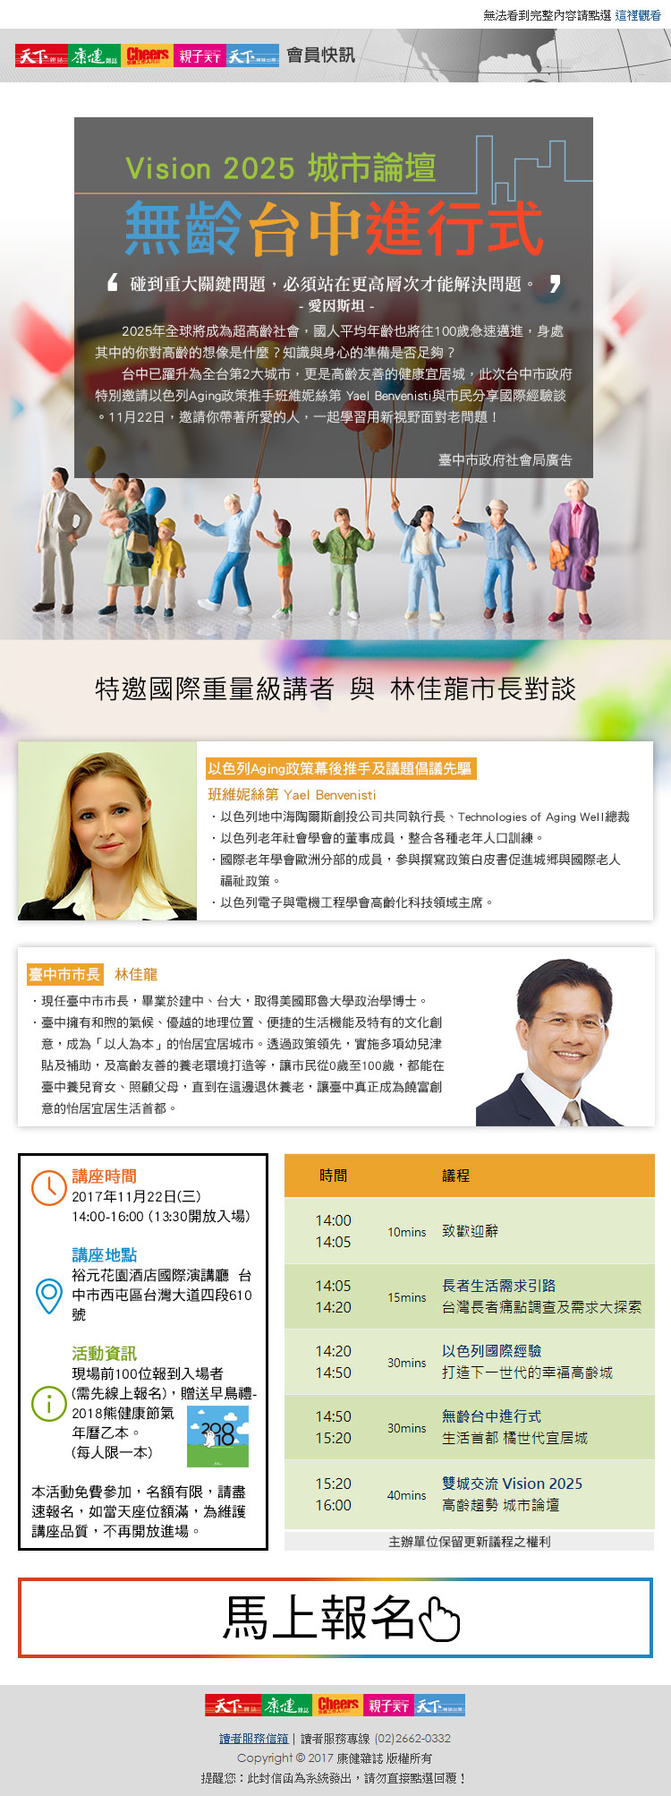
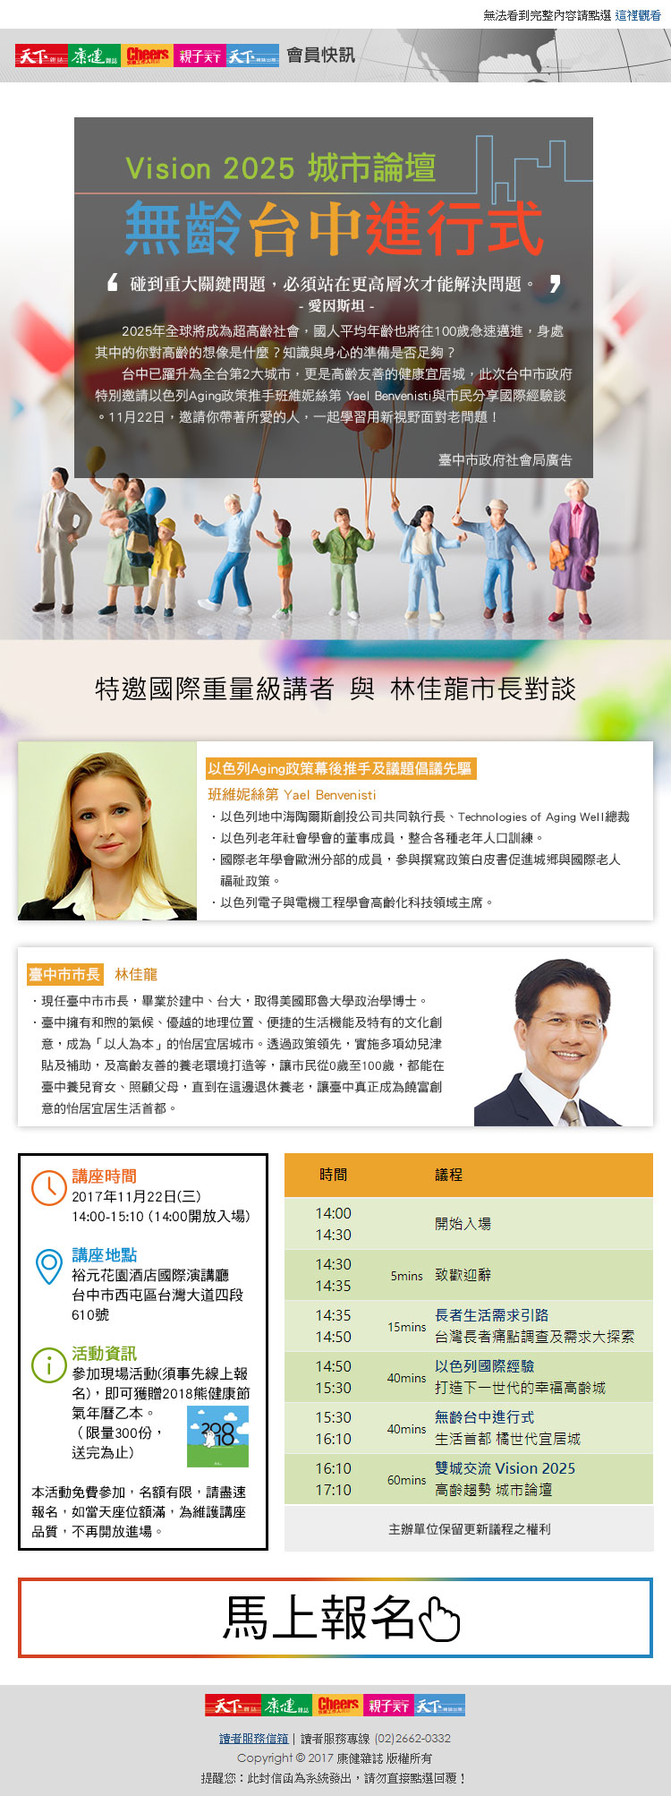
Modify

Changed region(s): [[0.3987, 0.6491, 0.9813, 0.8654], [0.0307, 0.68, 0.368, 0.8654], [0.7667, 0.5254, 0.92, 0.6491]]

diff --git a/web/tks.html b/web/tks.html
@@ -1,0 +1,196 @@
+<!doctype html>
+<html>
+<head>
+    <meta charset="utf-8">
+    <meta http-equiv="X-UA-Compatible" content="IE=edge">
+    <meta name="viewport" content="width=device-width, initial-scale=1, shrink-to-fit=no">
+    <title>Vision 2025高齡論壇～2017無齡台中進行式</title>
+    <meta name="keywords" content="2025,高齡,城市,台中,百歲,退休,競爭力,論壇">
+    <meta name="description" content="2025年全球將成為超高齡社會，國人平均年齡也將往100歲急速邁進，身處其中的你對高齡的想像是什麼？知識與身心的準備是否足夠？
+台中已躍升為全台第2大城市，更是高齡友善的健康宜居城，此次台中市政府特別邀請以色列Aging政策推手 班維妮絲第 Yael Benvenisti 與市民分享國際經驗談。11月22日，邀請你帶著所愛的人，一起學習用新視野面對老問題！">
+    <!--fb og-->
+    <meta property="og:title" content=" Vision 2025高齡論壇～2017無齡台中進行式">
+    <meta property="og:type" content="website"/>
+    <meta property="og:url" content="http://topic.commonhealth.com.tw/2017taichung/">
+    <meta property="og:site_name" content="康健雜誌"/>
+    <meta property="og:description" content="台中已躍升為全台第2大城市，更是高齡友善的健康宜居城，此次台中市政府特別邀請以色列Aging政策推手 班維妮絲第 Yael Benvenisti 與市民分享國際經驗談。11月22日，邀請你帶著所愛的人，一起學習用新視野面對老問題！">
+    <meta property="og:image" content="http://topic.commonhealth.com.tw/2017taichung/assets/img/og-image.jpg" >
+    <meta content="zh_TW" property="og:locale">
+    <link rel="shortcut icon" href="http://www.commonhealth.com.tw/images/favicon.ico" type="image/x-icon" >
+    <link rel="image_src" href="http://topic.commonhealth.com.tw/2017taichung/img/og-image.jpg" >
+    <link rel="stylesheet" href="assets/css/bootstrap.css">
+    <link rel="stylesheet" href="assets/css/custom.css">
+    <!--[if lt IE 9]>
+        <script src="https://oss.maxcdn.com/html5shiv/3.7.2/html5shiv.min.js"></script>
+        <script src="https://oss.maxcdn.com/respond/1.4.2/respond.min.js"></script>
+    <![endif]-->
+    <script src="assets/js/vendor/jquery.min.js"></script>
+    <!-- Google Tag Manager -->
+	<script>(function(w,d,s,l,i){w[l]=w[l]||[];w[l].push({'gtm.start':
+	new Date().getTime(),event:'gtm.js'});var f=d.getElementsByTagName(s)[0],
+	j=d.createElement(s),dl=l!='dataLayer'?'&l='+l:'';j.async=true;j.src=
+	'//www.googletagmanager.com/gtm.js?id='+i+dl;f.parentNode.insertBefore(j,f);
+	})(window,document,'script','dataLayer','GTM-MCMN77');</script>
+	<!-- End Google Tag Manager -->
+
+    <!-- Facebook Pixel Code -->
+    <script>
+    !function(f,b,e,v,n,t,s){if(f.fbq)return;n=f.fbq=function(){n.callMethod?
+    n.callMethod.apply(n,arguments):n.queue.push(arguments)};if(!f._fbq)f._fbq=n;
+    n.push=n;n.loaded=!0;n.version='2.0';n.queue=[];t=b.createElement(e);t.async=!0;
+    t.src=v;s=b.getElementsByTagName(e)[0];s.parentNode.insertBefore(t,s)}(window,
+    document,'script','https://connect.facebook.net/en_US/fbevents.js');
+    fbq('init', '1652505931732425');
+    fbq('track', 'PageView');
+    </script>
+    <noscript><img height="1" width="1" style="display:none"
+    src="https://www.facebook.com/tr?id=1652505931732425&ev=PageView&noscript=1"
+    /></noscript>
+    <!-- DO NOT MODIFY -->
+    <!-- End Facebook Pixel Code -->
+</head>
+
+<body>
+
+    <nav class="pushy pushy-right bg-success">
+        <div class="pos-a-c">
+        <div class="list-group">
+            <a class="list-group-item" href="index.html" onClick="ga('send', 'event', '無齡台中', 'view', 'TOP');">
+                首頁
+            </a>
+            <a class="list-group-item" href="index.html#speaker" onClick="ga('send', 'event', '無齡台中', 'view', '01-講者');">
+                講者
+            </a>
+            <a class="list-group-item" href="index.html#meeting" onClick="ga('send', 'event', '無齡台中', 'view', '02-議程');">
+                議程
+            </a>
+            <a class="list-group-item" href="index.html#survey" onClick="ga('send', 'event', '無齡台中', 'view', '03-報名');">
+                報名
+            </a>
+        </div>
+        </div>
+    </nav>
+
+    <div id="header" class="push fixed-top bs">
+        <div class="container-fluid px-0">
+            <div class="container">
+                <nav class="navbar navbar-toggleable-sm p-0">
+                    <div class="navbar-brand text-left py-1 py-sm-0">
+                        <img class="img-fluid" src="assets/img/ui/logo-ch.png" srcset="assets/img/ui/logo-ch@2x.png 2x, assets/img/ui/logo-ch@3x.png 3x" alt="">
+                    </div>
+                    <div class="pos-a-r mr-2">
+                        <button class="navbar-toggler py-1 hidden-md-up menu-btn bg-success">
+                            <i class="icon-menu"></i>
+                        </button>
+                    </div>
+                    <div class="collapse navbar-collapse py-1" id="navbarSupportedContent">
+                        <ul class="navbar-nav ml-auto">
+                            <li class="nav-item">
+                                <a class="nav-link btn-anchor text-black" href="index.html" onClick="ga('send', 'event', '無齡台中', 'view', 'TOP');">
+                                    首頁
+                                </a>
+                            </li>
+                            <li class="nav-item">
+                                <a class="nav-link btn-anchor text-black" href="index.html#speaker" onClick="ga('send', 'event', '無齡台中', 'view', '01-講者');">講者</a>
+                            </li>
+                            <li class="nav-item">
+                                <a class="nav-link btn-anchor text-black" href="index.html#meeting" onClick="ga('send', 'event', '無齡台中', 'view', '02-議程');">議程</a>
+                            </li>
+                            <li class="nav-item">
+                                <a class="nav-link btn-anchor text-black" href="index.html#survey" onClick="ga('send', 'event', '無齡台中', 'view', '03-報名');">報名</a>
+                            </li>
+                            <li class="nav-item pt-1">
+                                <div class="fb-like" data-href="http://topic.commonhealth.com.tw/2017taichung/" data-layout="button_count" data-action="like" data-size="small" data-show-faces="false" data-share="true"></div>
+                            </li>
+                        </ul>
+                    </div>
+                </nav>
+            </div>
+        </div>
+    </div>
+
+    <div class="site-overlay"></div>
+
+    <!-- 講座 -->
+    <div class="container-fluid push bg-sky">
+        <div class="container py-20">
+            <div class="text-center mt-10 mb-7" data-aos="fade-up">
+                <img class="img-fluid" src="assets/img/ui/title-join.png" srcset="assets/img/ui/title-join@2x.png 2x, assets/img/ui/title-join@3x.png 3x" alt="講座報名">
+            </div>
+            <div class="row">
+                <div class="col-12 mt-3" data-aos="fade-up" data-aos-duration="1000" data-aos-delay="200">
+                    <div class="my-10 h2 text-center">
+                        感謝您的報名<br>
+                        現場座位有限，恕無法保留，敬請提早入席
+                    </div>
+                </div>
+            </div>
+        </div>
+    </div>
+
+    <div class="container-fluid pb-4 push">
+        <div class="container py-10">
+            <div class="text-center">
+                <div class="d-inline-block mx-4 my-2">
+                    <span class="d-inline-block mx-4 my-1">主辦</span>
+                    <img class="img-fluid" src="assets/img/ui/logo-taichung.png" srcset="assets/img/ui/logo-taichung@2x.png 2x, assets/img/ui/logo-taichung@3x.png 3x" alt="">
+                </div>
+                <div class="d-inline-block mx-4 my-2">
+                    <span class="d-inline-block mx-4 my-1">承辦</span>
+                    <img class="img-fluid" src="assets/img/ui/logo-ch.png" srcset="assets/img/ui/logo-ch@2x.png 2x, assets/img/ui/logo-ch@3x.png 3x" alt="">
+                </div>
+            </div>
+        </div>
+<div id="commonhealth_footer">
+  <div class="commonhealth_footer-channel">
+    <ul>
+      <li><a href="http://www.commonhealth.com.tw/magazine/latest/" target="_blank">康健雜誌</a></li>
+      <li><a href="https://www.commonhealth.com.tw/book/index.action" target="_blank">康健出版</a></li>
+      <li><a href="http://www.commonhealth.com.tw/" target="_blank">康健官網</a></li>
+      <li><a href="https://www.youtube.com/user/CommonHealthTV" target="_blank">康健影音</a></li>
+      <li><a href="https://line.me/ti/p/@commonhealth" target="_blank">康健LINE</a></li>
+      <br>
+      <li><a href="https://www.facebook.com/commonhealth/" target="_blank">康健FB</a></li>
+      <li><a href="https://kb.commonhealth.com.tw/" target="_blank">康健知識庫</a></li>
+      <li><a href="https://club.commonhealth.com.tw/" target="_blank">大人の社團</a></li>
+      <li><a href="https://shop.commonhealth.com.tw/" target="_blank">大人的好物</a></li>
+    </ul>
+  </div>
+  <div class="commonhealth_footer-copyright">
+    Copyright © 2017 康健雜誌. <br>All rights reserved. 版權所有，禁止擅自轉貼節錄
+  </div>
+</div>
+    </div>
+
+    <div class="fixed-bottom hidden-md-up">
+        <div class="row">
+            <div class="col px-0">
+                <a gtm-name="分享Facebook" class="btn btn-block btn-fb py-0" target="_blank" href="https://www.facebook.com/sharer/sharer.php?u=http%3A//topic.commonhealth.com.tw/2017taichung/">
+                    <img src="assets/img/ui/icon-share-fb.png" srcset="assets/img/ui/icon-share-fb@2x.png 2x, assets/img/ui/icon-share-fb@3x.png 3x" alt="">
+                </a>
+            </div>
+            <div class="col px-0">
+                <a gtm-name="分享Line" class="btn btn-block btn-line py-0" target="_blank" href="http://line.naver.jp/R/msg/text/?http://topic.commonhealth.com.tw/2017taichung/">
+                    <img src="assets/img/ui/icon-share-line.png" srcset="assets/img/ui/icon-share-line@2x.png 2x, assets/img/ui/icon-share-line@3x.png 3x" alt="">
+                </a>
+            </div>
+<!--
+            <div class="col-4 px-0">
+                <a gtm-name="分享Google" class="btn btn-block btn-google py-0" target="_blank" href="https://plus.google.com/share?url=topic.commonhealth.com.tw/2017taichung/">
+                    <img src="assets/img/ui/icon-share-google.png" srcset="assets/img/ui/icon-share-google@2x.png 2x, assets/img/ui/icon-share-google@3x.png 3x" alt="">
+                </a>
+            </div>
+-->
+        </div>
+    </div>
+
+    <!-- Common -->
+    <div id="fb-root"></div>
+    <script src="assets/js/vendor/bootstrap.tether.min.js"></script>
+    <script src="assets/js/vendor/bootstrap.min.js"></script>
+    <script src="assets/js/vendor/jquery.pushy.min.js"></script>
+    <script src="assets/js/vendor/jquery.aos.min.js"></script>
+    <script src="assets/js/custom.js"></script>
+</body>
+</html>
+

diff --git a/web/content.html b/web/content.html
@@ -80,7 +80,7 @@ window.mobilecheck = function() {
         }
       }
      </style>
-    <form target="_top" method="post" id="form" class="form" action=""> <div id="dform" class="xform"> <input type="hidden" name="tpage" id="tpage" value="1" /> <div id="page1"> <div class="field form-group" type="1" req="1" id="div_customer_name" accesskey="1" ispk="1" isuk="0"> <div class="field-labelblock"> <span class="error"></span><span class="field-label">1. 姓名<span class="req">*</span></span></div> <div class="field-content"> <input name="customer_name" type="text" id="customer_name" maxlength="50" value="" tag="姓名"    /></div> </div>
+    <form target="_top" method="post" id="form" class="form" action=""> <div id="dform" class="xform"> <input type="hidden" name="tpage" id="tpage" value="1" /> <div id="page1"> <div class="field form-group" type="1" req="1" id="div_customer_name" accesskey="1" ispk="1" isuk="0"> <div class="field-labelblock"> <span class="error"></span><span class="field-label">1. 姓名<span class="req">*</span></span></div> <div class="field-content"> <input class="form-control" name="customer_name" type="text" id="customer_name" maxlength="50" value="" tag="姓名"    /></div> </div>
         <div class="field form-group" type="1" req="1" id="div_mobile" accesskey="2" ispk="0" isuk="0"> <div class="field-labelblock"> <span class="error"></span><span class="field-label">2. 主要手機<span class="req">*</span></span></div> <div class="field-content"> <input class="form-control" name="mobile" type="text" id="mobile" maxlength="20" value="" tag="主要手機"  isPhone="true" numbersOnly /></div> </div>
 
         <div class="field form-group" type="1" req="1" id="div_email" accesskey="3" ispk="1" isuk="0"> <div class="field-labelblock"> <span class="error"></span><span class="field-label">3. 主要電子郵件<span class="req">*</span></span></div> <div class="field-content"> <input class="form-control" name="email" type="text" id="email" maxlength="" value="" tag="主要電子郵件" isEmail="true"   /></div> </div>
@@ -93,7 +93,7 @@ window.mobilecheck = function() {
 
         <div class="field form-group" type="3" req="0" id="div_n_7" accesskey="7" ispk="0" > <div class="field-labelblock"> <span class="error"> </span><span class="field-label">7. 目前居住城市</span></div> <div class="field-content-horizontal"> <ul class="mc-select single horizontal"> <li class="mco"><a single="true" class="selected">台中</a></li> <li class="mco"><a single="true">彰化</a></li> <li class="mco"><a single="true">南投</a></li> <li class="mco"><a single="true">苗粟</a></li> <li class="mco"><a single="true">雲林</a></li> <li class="mco"><a single="true">台灣北部</a></li> <li class="mco"><a single="true">台灣南部</a></li> <li class="mco"><a single="true">台灣東部</a></li> <li class="mco"><div><a single="true" onclick="toggleInput(this)">其他&nbsp;<input class="specify" id="n_7_9_o" name="n_7_9_o" type="text" onkeyup="validateSpecify(this)" /></a></div></li> </ul> </div> <input name="n_7" type="hidden" id="n_7" value=1 /> </div>
 
-        <div class="field form-group" type="1" req="0" id="div_n_8" accesskey="8" ispk="0" isuk="0"> <div class="field-labelblock"> <span class="error"></span><span class="field-label">8. 我最想對台中(或市長)說的一句話</span></div> <div class="field-content"> <input class="form-control" name="n_8" type="text" id="n_8" maxlength="" value="" tag="我最想對台中(或市長)說的一句話"    /></div> </div><div class="field hide needSubmit" type="4" req="1" id="div_is_mkt" accesskey="9"maxOption=1 ispk="0"  > <div class="field-labelblock"> <span class="error"> </span><span class="field-label">9. 特別聲明：我已詳細閱讀並同意以下條款<span class="req">*</span></span></div> <div class="field-content"> <ul class="mc-select multiple"> <li class="mco" fid="is_mkt_1" order="1"><a multiple="true" class="selected">我同意成為天下雜誌集團會員（天下雜誌股份有限公司、天下生活出版股份有限公司、親子天下股份有限公司、財團法人天下雜誌教育基金會、天宇股份有限公司，以下簡稱本集團）。天下雜誌集團及其委外服務廠商，基於客戶管理、統計及調查分析、會員管理、行銷及其他合於營業登記項目或章程所定業務需要之特定目的，在此向您蒐集以上個人資料，作為本集團營運期間於台灣地區寄送出版物及各項優惠訊息與調查分析使用。您可向本集團請求查閱、提供複本、更正或補充個人資訊，及請求刪除或停止處理利用，請您連繫天下雜誌群客戶服務中心(02)2662-0332 或email: bill@cw.com.tw。若您填寫資料不完整時，可能會影響您收受出版物或優惠訊息之權利。</a></li> </ul> <input type="hidden" name="is_mkt" id="is_mkt" value="1"> </div></div> <div class="field hide needSubmit" type="1" req="0" id="div_ActivityName" accesskey="10" ispk="0" isuk="0"> <div class="field-labelblock"> <span class="error"></span><span class="field-label">10. 活動名稱</span></div> <div class="field-content"> <input name="ActivityName" type="text" id="ActivityName" maxlength="" value="Vision 2025城市論壇-無齡台中進行式" tag="活動名稱"    /></div> </div><div class="field hide needSubmit" type="1" req="0" id="div_SurveySourceCode" accesskey="11" ispk="0" isuk="0"> <div class="field-labelblock"> <span class="error"></span><span class="field-label">11. 網路會員來源別</span></div> <div class="field-content"> <input name="SurveySourceCode" type="text" id="SurveySourceCode" maxlength="30" value="H_survey" tag="網路會員來源別"    /></div> </div><div class="formfooter"> <div class="ValError" style="height:20px"> </div> <input type="button" class="btn btn-block btn-lg btn-warning" value="Submit" accesskey="1" onclick="validate(this)" /> </div> </div> </div> <div class="clear1"> &nbsp;</div><input id="SID" name="SID" type="hidden" value="1403" /> <input id="rURL" name="rURL" type="hidden" value="http://topic.commonhealth.com.tw/100plus/2017/retirement/tks.html" /> <input id="clientID" name="clientID" type="hidden" value="Chrad" /> <input id="campaignID" name="campaignID" type="hidden" value="ch001" /> <input id="xml" name="xml" type="hidden"> </form>
+        <div class="field form-group" type="1" req="0" id="div_n_8" accesskey="8" ispk="0" isuk="0"> <div class="field-labelblock"> <span class="error"></span><span class="field-label">8. 我最想對台中(或市長)說的一句話</span></div> <div class="field-content"> <input class="form-control" name="n_8" type="text" id="n_8" maxlength="" value="" tag="我最想對台中(或市長)說的一句話"    /></div> </div><div class="field hide needSubmit" type="4" req="1" id="div_is_mkt" accesskey="9"maxOption=1 ispk="0"  > <div class="field-labelblock"> <span class="error"> </span><span class="field-label">9. 特別聲明：我已詳細閱讀並同意以下條款<span class="req">*</span></span></div> <div class="field-content"> <ul class="mc-select multiple"> <li class="mco" fid="is_mkt_1" order="1"><a multiple="true" class="selected">我同意成為天下雜誌集團會員（天下雜誌股份有限公司、天下生活出版股份有限公司、親子天下股份有限公司、財團法人天下雜誌教育基金會、天宇股份有限公司，以下簡稱本集團）。天下雜誌集團及其委外服務廠商，基於客戶管理、統計及調查分析、會員管理、行銷及其他合於營業登記項目或章程所定業務需要之特定目的，在此向您蒐集以上個人資料，作為本集團營運期間於台灣地區寄送出版物及各項優惠訊息與調查分析使用。您可向本集團請求查閱、提供複本、更正或補充個人資訊，及請求刪除或停止處理利用，請您連繫天下雜誌群客戶服務中心(02)2662-0332 或email: bill@cw.com.tw。若您填寫資料不完整時，可能會影響您收受出版物或優惠訊息之權利。</a></li> </ul> <input type="hidden" name="is_mkt" id="is_mkt" value="1"> </div></div> <div class="field hide needSubmit" type="1" req="0" id="div_ActivityName" accesskey="10" ispk="0" isuk="0"> <div class="field-labelblock"> <span class="error"></span><span class="field-label">10. 活動名稱</span></div> <div class="field-content"> <input name="ActivityName" type="text" id="ActivityName" maxlength="" value="Vision 2025城市論壇-無齡台中進行式" tag="活動名稱"    /></div> </div><div class="field hide needSubmit" type="1" req="0" id="div_SurveySourceCode" accesskey="11" ispk="0" isuk="0"> <div class="field-labelblock"> <span class="error"></span><span class="field-label">11. 網路會員來源別</span></div> <div class="field-content"> <input name="SurveySourceCode" type="text" id="SurveySourceCode" maxlength="30" value="H_survey" tag="網路會員來源別"    /></div> </div><div class="formfooter"> <div class="ValError" style="height:20px"> </div> <input type="button" class="btn btn-block btn-lg btn-warning" value="Submit" accesskey="1" onclick="validate(this)" /> </div> </div> </div> <div class="clear1"> &nbsp;</div><input id="SID" name="SID" type="hidden" value="1403" /> <input id="rURL" name="rURL" type="hidden" value="http://topic.commonhealth.com.tw/2017taichung/tks.html" /> <input id="clientID" name="clientID" type="hidden" value="Chrad" /> <input id="campaignID" name="campaignID" type="hidden" value="ch001" /> <input id="xml" name="xml" type="hidden"> </form>
     <script type="text/javascript">
         $(function()
         {

diff --git a/web/index.html b/web/index.html
@@ -215,7 +215,7 @@
             </div>
             <div class="row justify-content-center" data-aos="fade-up" data-aos-delay="200">
                 <div class="col-12 col-lg-10">
-            <table class="table table-striped">
+            <table class="table table-striped table-sm">
                 <thead>
                     <tr class="bg-warning">
                         <th class="text-center" width="12%" nowrap>時間</th>
@@ -226,35 +226,39 @@
                 </thead>
                 <tbody>
                     <tr>
-                        <td class="text-center px-1">14:00<br>14:05</td>
-                        <td class="text-center px-1 hidden-sm-down"><small>10mins</small></td>
+                        <td class="text-center px-1">14:00<br>14:30</td>
+                        <td class="text-center px-1 hidden-sm-down">&nbsp;</td>
+                        <td colspan="2">開始入場</td>
+                    </tr>
+                    <tr>
+                        <td class="text-center px-1">14:30<br>14:35</td>
+                        <td class="text-center px-1 hidden-sm-down"><small>5mins</small></td>
                         <td>致歡迎辭</td>
                         <td>
-                            康健雜誌社長 李瑟<br>
-                            臺中市市長 林佳龍
+                            康健雜誌社長 李瑟
                         </td>
                     </tr>
                     <tr>
-                        <td class="text-center px-1">14:05<br>14:20</td>
+                        <td class="text-center px-1">14:35<br>14:50</td>
                         <td class="text-center px-1 hidden-sm-down"><small>15mins</small></td>
                         <td><strong class="text-primary">長者生活需求引路</strong><br>台灣長者痛點調查及需求大探索</td>
                         <td>智榮基金會龍吟研論營運總監 李竺姮</td>
                     </tr>
                     <tr>
-                        <td class="text-center px-1">14:20<br>14:50</td>
-                        <td class="text-center px-1 hidden-sm-down"><small>30mins</small></td>
+                        <td class="text-center px-1">14:50<br>15:30</td>
+                        <td class="text-center px-1 hidden-sm-down"><small>40mins</small></td>
                         <td><strong class="text-primary">以色列國際經驗</strong><br>打造下一世代的幸福高齡城</td>
                         <td>以色列代表 Yael Benvenisti (班維妮絲第)</td>
                     </tr>
                     <tr>
-                        <td class="text-center px-1">14:50<br>15:20</td>
-                        <td class="text-center px-1 hidden-sm-down"><small>30mins</small></td>
+                        <td class="text-center px-1">15:30<br>16:10</td>
+                        <td class="text-center px-1 hidden-sm-down"><small>40mins</small></td>
                         <td><strong class="text-primary">無齡台中進行式</strong><br>生活首都  橘世代宜居城</td>
                         <td>臺中市市長 林佳龍</td>
                     </tr>
                     <tr>
-                        <td class="text-center px-1">15:20<br>16:00</td>
-                        <td class="text-center px-1 hidden-sm-down"><small>40mins</small></td>
+                        <td class="text-center px-1">16:10<br>17:10</td>
+                        <td class="text-center px-1 hidden-sm-down"><small>60mins</small></td>
                         <td><strong class="text-primary">雙城交流 Vision 2025</strong><br>高齡趨勢 城市論壇</td>
                         <td>
                             主持人：<br>康健雜誌社長 李瑟<br><br>
@@ -283,7 +287,7 @@
                             <img class="img-fluid d-flex mr-2" src="assets/img/ui/icon-clock.png" srcset="assets/img/ui/icon-clock@2x.png 2x, assets/img/ui/icon-clock@3x.png 3x" alt="">
                             <div class="media-body">
                                 <div class="lead text-warning-dark font-weight-bold">講座時間</div>
-                                2017年11月22日(三) 14:00-16:00 (13:30開放入場)
+                                2017年11月22日(三) 14:00-17:10 (14:00開放入場)
                             </div>
                         </div>
                         <div class="media mb-3">
@@ -298,7 +302,7 @@
                             <div class="media-body">
                                 <div class="lead text-success font-weight-bold">活動資訊</div>
                                 <img class="img-fluid float-right ml-2" src="assets/img/uploads/book.jpg" srcset="assets/img/uploads/book@2x.jpg 2x, assets/img/uploads/book@3x.jpg 3x" width="80" alt="">
-                                現場前100位報到入場者(需先線上報名)，贈送早鳥禮-2018熊健康節氣年曆乙本。(每人限一本)<br>
+                                參加現場活動(須事先線上報名),即可獲贈2018熊健康節氣年曆乙本。（限量300份,送完為止)<br>
                             </div>
                         </div>
                         <div class="alert m-0 p-1">
